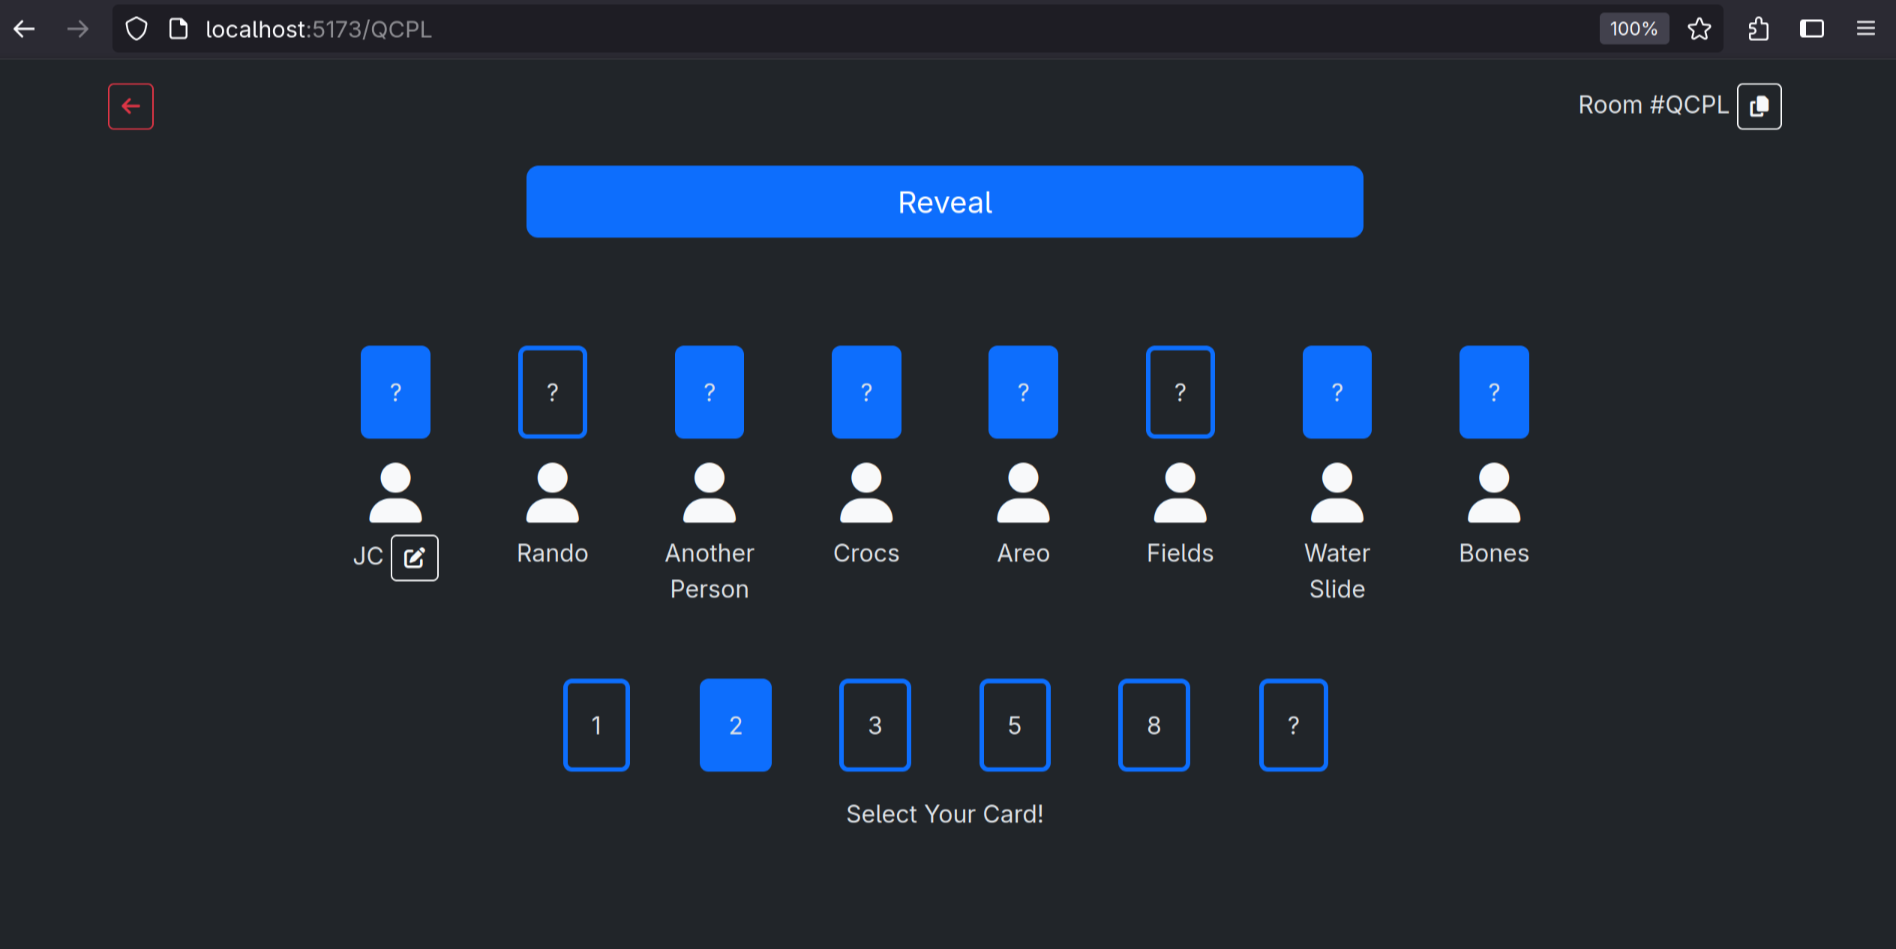
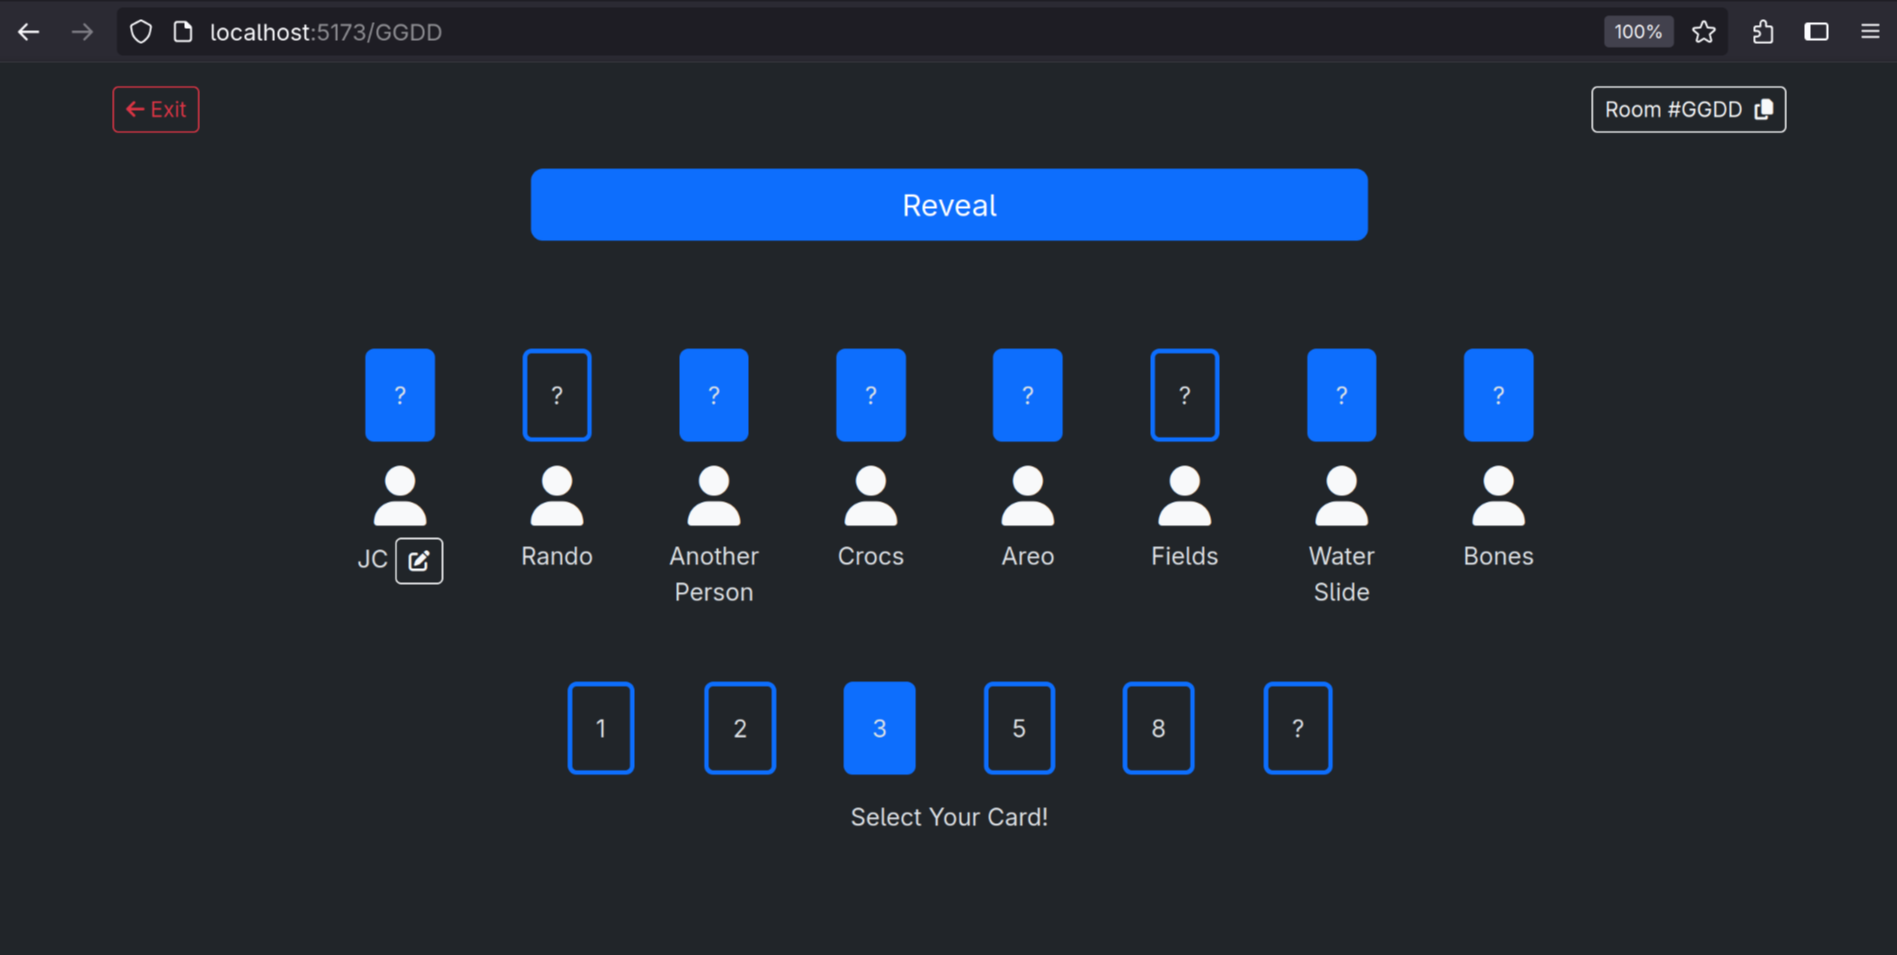
animate copy

diff --git a/public/index.html b/public/index.html
@@ -32,13 +32,17 @@
 
                 <!-- Header -->
                 <div class="d-flex justify-content-between mt-3">
-                    <button id="exit" class="btn btn-outline-danger btn-sm">
-                        <i class="fa-solid fa-arrow-left"></i>
-                    </button>
                     <div>
-                        <span id="title">Room </span>
+                        <button id="exit" class="btn btn-outline-danger btn-sm">
+                            <i class="fa-solid fa-arrow-left"></i>
+                            Exit
+                        </button>
+                    </div>
+                    <div>
                         <button id="copy-link" class="btn btn-outline-light btn-sm">
-                            <i class="fa-solid fa-copy"></i>
+                        <span id="title"></span>
+                            <i id="copy-icon" class="ms-1 fa-solid fa-copy"></i>
+                            <i id="copy-done-icon" class="d-none ms-1 fa-solid fa-check"></i>
                         </button>
                     </div>
                 </div>

diff --git a/public/main.js b/public/main.js
@@ -172,8 +172,21 @@ document.getElementById('change-name').addEventListener('click', () => {
     });
 });
 
-document.getElementById('copy-link').addEventListener('click', () => {
+const copyLink = document.getElementById('copy-link');
+copyLink.addEventListener('click', () => {
     navigator.clipboard.writeText(location.href)
+    copyLink.classList.remove('btn-outline-light');
+    copyLink.classList.add('btn-outline-success');
+    document.getElementById('copy-icon').classList.add('d-none');
+    document.getElementById('copy-done-icon').classList.remove('d-none');
+     
+    setTimeout(() => {
+        copyLink.classList.remove('btn-outline-success');
+        copyLink.classList.add('btn-outline-light');
+        document.getElementById('copy-done-icon').classList.add('d-none');
+        document.getElementById('copy-icon').classList.remove('d-none');
+    }, 1000);
+
 });
 
 document.getElementById('exit').addEventListener('click', () => {
